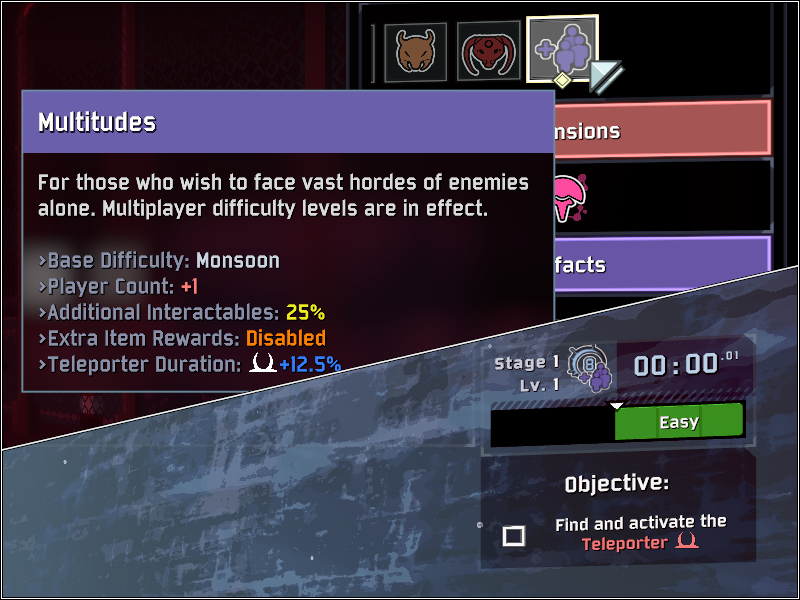
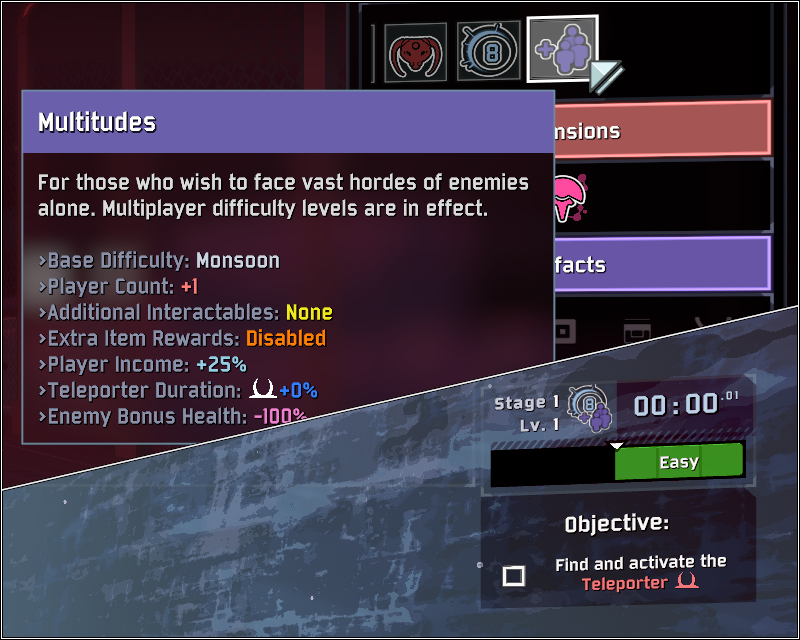
Add option to limit penalties to player income and boss health.

diff --git a/Session.cs b/Session.cs
@@ -17,6 +17,8 @@ namespace Local.Difficulty.Multitudes
 		public static bool eclipseMode;
 		public static decimal interactableScale;
 		public static bool extraRewards;
+		public static decimal incomePenalty;
+		public static decimal bonusHealth;
 		public static decimal teleporterChargeRate;
 		public static bool forceEnable;
 
@@ -34,7 +36,7 @@ namespace Local.Difficulty.Multitudes
 			}
 		}
 
-		public static void End(Run _)
+		public static void End(object _)
 		{
 			SceneDirector.onPrePopulateSceneServer -= AdjustInteractableCredits;
 			BossGroup.onBossGroupStartServer -= AdjustBossRewards;
@@ -57,7 +59,7 @@ namespace Local.Difficulty.Multitudes
 					});
 
 			if ( RoR2Application.isInMultiPlayer || forceEnable )
-				sendMessage("Multitudes Enabled\n" + Setup.BuildDescription(flavorText: false));
+				sendMessage(Setup.BuildDescription(verbose: false));
 			else if ( eclipseMode )
 				sendMessage("Good luck.");
 		}
@@ -70,14 +72,14 @@ namespace Local.Difficulty.Multitudes
 				GreetUser();
 		}
 
-		[HarmonyPatch(typeof(Run), nameof(Run.livingPlayerCount), MethodType.Getter)]
 		[HarmonyPatch(typeof(Run), nameof(Run.participatingPlayerCount), MethodType.Getter)]
 		[HarmonyPostfix]
-		private static int AdjustPlayerCount(int realPlayerCount)
-				=> realPlayerCount + additionalPlayers;
+		private static int AdjustPlayerCount(int playerCount)
+				=> playerCount > 0 ? playerCount + additionalPlayers : playerCount;
 
-		public static int GetRealPlayerCount(int adjustedPlayerCount)
-				=> adjustedPlayerCount - additionalPlayers;
+		private static int RealPlayerCount => RoR2Application.isInMultiPlayer ?
+				PlatformSystems.lobbyManager.calculatedTotalPlayerCount :
+				PlayerCharacterMasterController.instances.Count;
 
 //		[HarmonyPatch(typeof(SceneDirector), nameof(SceneDirector.PopulateScene))]
 //		[HarmonyPrefix]
@@ -112,20 +114,88 @@ namespace Local.Difficulty.Multitudes
 		{
 			if ( !extraRewards )
 			{
-				int realPlayerCount = GetRealPlayerCount(Run.instance.participatingPlayerCount);
 				int originalRewards = ( 1 + __instance.bonusRewardCount ) * 
 						Run.instance.participatingPlayerCount;
 
 				__instance.scaleRewardsByPlayerCount = false;
 
 				// Increase rewards for multiplayer games...
-				__instance.bonusRewardCount *= realPlayerCount;	// i.e. `Shrine of the Mountain`
-				__instance.bonusRewardCount += realPlayerCount - 1;	// & base rewards.
+				__instance.bonusRewardCount *= RealPlayerCount;	// i.e. `Shrine of the Mountain`
+				__instance.bonusRewardCount += RealPlayerCount - 1;	// & base rewards.
 
 				originalRewards -= 1 + __instance.bonusRewardCount;
 				Console.WriteLine(
 						$"Adjusted boss event to drop { originalRewards } less item(s).");
 			}
+		}
+
+		[HarmonyPatch(typeof(TeamManager), nameof(TeamManager.GiveTeamMoney))]
+		[HarmonyPrefix]
+		private static void AdjustPlayerIncome(ref uint money)
+		{
+			decimal extraIncome = money * additionalPlayers;
+			extraIncome /= Run.instance.participatingPlayerCount;
+
+			money -= (uint)( incomePenalty * extraIncome );
+		}
+
+		[HarmonyPatch(typeof(CombatDirector), nameof(CombatDirector.Spawn))]
+		[HarmonyPatch(typeof(ScriptedCombatEncounter), nameof(ScriptedCombatEncounter.Spawn))]
+		[HarmonyTranspiler]
+		private static IEnumerable<CodeInstruction> InsertHook(
+				MethodBase __originalMethod, IEnumerable<CodeInstruction> instructionList)
+		{
+			MethodInfo directorSpawn =
+					typeof(DirectorCore).GetMethod(nameof(DirectorCore.TrySpawnObject));
+
+			foreach ( CodeInstruction instruction in instructionList )
+			{
+				if ( instruction.Calls(directorSpawn) && bonusHealth > 0 )
+				{
+					yield return new CodeInstruction(OpCodes.Dup);
+					yield return new CodeInstruction(OpCodes.Ldarg_0);
+
+					if ( typeof(CombatDirector) == __originalMethod.DeclaringType )
+						yield return new CodeInstruction(OpCodes.Ldarg_2);
+					else yield return new CodeInstruction(OpCodes.Ldnull);
+
+					yield return CodeInstruction.Call(typeof(Session), nameof(AddBonusHealth));
+				}
+
+				yield return instruction;
+			}
+		}
+
+		private static void AddBonusHealth(
+				DirectorSpawnRequest request, object instance, EliteDef elite)
+		{
+			request.onSpawnedServer += ( SpawnCard.SpawnResult result ) =>
+			{
+				if ( result.success && result.spawnedInstance )
+				{
+					double health = 0;
+
+					if ( instance is CombatDirector director )
+					{
+						if ( director.combatSquad?.grantBonusHealthInMultiplayer is true )
+						{
+							health = elite ? elite.healthBoostCoefficient : 1;
+							health *= additionalPlayers;
+						}
+					}
+					else
+					{
+						health = Run.instance.difficultyCoefficient * 2 / 5;
+						health *= Math.Sqrt(Run.instance.livingPlayerCount + additionalPlayers)
+								- Math.Sqrt(Run.instance.livingPlayerCount);
+					}
+
+					health *= (double) bonusHealth * 10;
+					result.spawnedInstance.GetComponent<Inventory>().GiveItem(
+							RoR2Content.Items.BoostHp, (int) Math.Round(health)
+						);
+				}
+			};
 		}
 
 		[HarmonyPatch(typeof(HoldoutZoneController), nameof(HoldoutZoneController.OnEnable))]
@@ -135,10 +205,8 @@ namespace Local.Difficulty.Multitudes
 			if ( __instance.chargingTeam == TeamIndex.Player &&
 					__instance.playerCountScaling != 0 )
 			{
-				int realPlayerCount = GetRealPlayerCount(Run.instance.participatingPlayerCount);
-
-				decimal multiplier = realPlayerCount / 
-						( realPlayerCount + teleporterChargeRate * additionalPlayers );
+				decimal multiplier = RealPlayerCount /
+						( RealPlayerCount + teleporterChargeRate * additionalPlayers );
 				__instance.calcChargeRate +=
 						( ref float chargeRate ) => chargeRate *= (float) multiplier;
 
@@ -156,44 +224,24 @@ namespace Local.Difficulty.Multitudes
 					teleporterChargeRate * additionalPlayers );
 		}
 
-		private static readonly MethodInfo getRealPlayerCount =
-				typeof(Session).GetMethod(nameof(GetRealPlayerCount));
-
 		[HarmonyPatch(typeof(ArenaMissionController), nameof(ArenaMissionController.EndRound))]
 		[HarmonyPatch(typeof(InfiniteTowerWaveController),
 				nameof(InfiniteTowerWaveController.DropRewards))]
 		[HarmonyTranspiler]		// Adjust rewards for `Void Fields` & `Simulacrum`.
-		private static IEnumerable<CodeInstruction> IgnoreParticipatingPlayerAdjustment(
+		private static IEnumerable<CodeInstruction> IgnorePlayerAdjustment(
 				IEnumerable<CodeInstruction> instructionList)
 		{
-			MethodInfo getParticipatingPlayerCount =
+			MethodInfo getPlayerCount =
 					typeof(Run).GetProperty(nameof(Run.participatingPlayerCount)).GetMethod;
 
 			foreach ( CodeInstruction instruction in instructionList )
 			{
-				yield return instruction;
-
-				if ( instruction.Calls(getParticipatingPlayerCount) 
-						&& !extraRewards )
-					yield return new CodeInstruction(OpCodes.Call, getRealPlayerCount);
-			}
-		}
-
-		[HarmonyPatch(typeof(AllPlayersTrigger), nameof(AllPlayersTrigger.FixedUpdate))]
-		[HarmonyPatch(typeof(MultiBodyTrigger), nameof(MultiBodyTrigger.FixedUpdate))]
-		[HarmonyTranspiler]		// Ensure final boss event triggers on appropriate player count.
-		private static IEnumerable<CodeInstruction> IgnoreLivingPlayerAdjustment(
-				IEnumerable<CodeInstruction> instructionList)
-		{
-			MethodInfo getLivingPlayerCount =
-					typeof(Run).GetProperty(nameof(Run.livingPlayerCount)).GetMethod;
-
-			foreach ( CodeInstruction instruction in instructionList )
-			{
-				yield return instruction;
-
-				if ( instruction.Calls(getLivingPlayerCount) )
-					yield return new CodeInstruction(OpCodes.Call, getRealPlayerCount);
+				if ( instruction.Calls(getPlayerCount) && ! extraRewards )
+				{
+					yield return new CodeInstruction(OpCodes.Pop);
+					yield return Transpilers.EmitDelegate<Func<int>>(( ) => RealPlayerCount );
+				}
+				else yield return instruction;
 			}
 		}
 	}

diff --git a/Setup.cs b/Setup.cs
@@ -23,7 +23,7 @@ namespace Local.Difficulty.Multitudes
 	[BepInPlugin("local.difficulty.multitudes", "MultitudesDifficulty", versionNumber)]
 	public class Setup : BaseUnityPlugin
 	{
-		public const string versionNumber = "0.3.5";
+		public const string versionNumber = "0.4.0";
 
 		public static DifficultyIndex multitudesIndex = DifficultyIndex.Invalid;
 		public static Color colorTheme;
@@ -42,7 +42,7 @@ namespace Local.Difficulty.Multitudes
 						DifficultyCatalog.GetDifficultyDef(DifficultyIndex.Hard).scalingValue,
 					nameToken: "Multitudes",
 					iconPath: null,
-					descriptionToken: BuildDescription(flavorText: true),
+					descriptionToken: BuildDescription(verbose: true),
 					color: colorTheme,
 					serverTag: RoR2ServerTags.mod,
 					countsAsHardMode: true
@@ -91,10 +91,10 @@ namespace Local.Difficulty.Multitudes
 
 			section("Advanced");
 
-			Session.interactableScale = Config.Bind<decimal>(
+			Session.interactableScale = Config.Bind(
 					section: sectionTitle,
 					key: "Additional Interactables",
-					defaultValue: 25,
+					defaultValue: 0m,
 					new ConfigDescription(
 						"Increasing this percentage results in additional interactables"
 						+ " (i.e. chests, shrines, & other loot), relative to player count.",
@@ -109,13 +109,33 @@ namespace Local.Difficulty.Multitudes
 						+ " Void Fields, and the Simulacrum."
 				).Value;
 
+			Session.incomePenalty = Config.Bind(
+					section: sectionTitle,
+					key: "Income Penalty",
+					defaultValue: 75m,
+					new ConfigDescription(
+						"Gold is typically split between all players. Lower this value to"
+						+ " lessen this effect.",
+							new AcceptableValueRange<decimal>(0, 100))
+				).Value / 100;
+
 			Session.teleporterChargeRate = Config.Bind(
 					section: sectionTitle,
 					key: "Teleporter Duration",
-					defaultValue: (decimal) 12.5,
+					defaultValue: 0m,
 					new ConfigDescription(
 						"The extent at which player count is considered when determining charge"
 						+ " rate for holdout zones. Higher values result in slower charge.",
+							new AcceptableValueRange<decimal>(0, 100))
+				).Value / 100;
+
+			Session.bonusHealth = Config.Bind(
+					section: sectionTitle,
+					key: "Bonus Health",
+					defaultValue: 0m,
+					new ConfigDescription(
+						"Certain enemies receive bonus health in multiplayer. Reduce the amount"
+						+ " granted to teleporter bosses and the like.",
 							new AcceptableValueRange<decimal>(0, 100))
 				).Value / 100;
 
@@ -130,13 +150,12 @@ namespace Local.Difficulty.Multitudes
 				).Value;
 		}
 
-		public static string BuildDescription(bool flavorText = false)
+		public static string BuildDescription(bool verbose = false)
 		{
-			return ( flavorText ? "For those who wish to face vast hordes of enemies alone. " +
-						"Multiplayer difficulty levels are in effect.\n\n" : "" ) +
-				( Session.forceEnable ? "" :
-						"<style=cStack>>Base Difficulty:</style> <style=cSub>" +
-						( Session.eclipseMode ? "Eclipse" : "Monsoon" ) + "</style>\n" ) +
+			return ( verbose ? "For those who wish to face vast hordes of enemies alone. " +
+						"Multiplayer difficulty levels are in effect.\n\n" +
+				"<style=cStack>>Base Difficulty:</style> <style=cSub>" +
+						( Session.eclipseMode ? "Eclipse" : "Monsoon" ) + "</style>\n" : "" ) +
 				"<style=cStack>>Player Count:</style> " +
 						$"<style=cDeath>+{ Session.additionalPlayers }</style>\n" +
 				"<style=cStack>>Additional Interactables:</style> " +
@@ -145,9 +164,13 @@ namespace Local.Difficulty.Multitudes
 				"<style=cStack>>Extra Item Rewards:</style> " +
 						( Session.extraRewards ? "<style=cIsHealing>Enabled</style>\n" :
 						"<color=#FF8000>Disabled</color>\n" ) +				// Equipment color.
+				"<style=cStack>>Player Income:</style> <style=cIsUtility>" +
+						'+' + ( 1 - Session.incomePenalty ).ToString("0.#%") + "</style>\n" +
 				"<style=cStack>>Teleporter Duration:</style> <sprite name=\"TP\">" +
 						"<color=#307FFF>+" + ( Session.teleporterChargeRate *	// Lunar color.
-						Session.additionalPlayers ).ToString("0.#%") + "</color>";
+						Session.additionalPlayers ).ToString("0.#%") + "</color>\n" +
+				"<style=cStack>>Enemy Bonus Health:</style> <style=cIsVoid>" +
+						'-' + ( 1 - Session.bonusHealth ).ToString("0.#%") + "</style>";
 		}
 
 		private static RuleDef DifficultyRule => RuleCatalog.allRuleDefs.First();

diff --git a/README.md b/README.md
@@ -18,18 +18,23 @@ It is recommended that you install with [*r2modman*](https://thunderstore.io/pac
 | Eclipse Mode | *True/False* | Use eclipse modifiers. Not for the faint of heart. |
 | Additional Interactables | *Percent* | Increasing this percentage results in additional interactables (i.e. chests, shrines, & other loot), relative to player count. |
 | Extra Item Rewards | *True/False*  | Enable to drop additional items during the teleporter event, Void Fields, and the Simulacrum. |
+| Income Penalty | *Percent* | Gold is typically split between all players. Lower this value to lessen this effect. |
 | Teleporter Duration | *Percent* | The extent at which player count is considered when determining charge rate for holdout zones. Higher values result in slower charge. |
+| Bonus Health | *Percent* | Certain enemies receive bonus health in multiplayer. Reduce the amount granted to teleporter bosses and the like. |
 | Force Enable | *True/False* | Force player count adjustment regardless of difficulty selection. For use with other custom difficulty modes. |
 
-Note that values of **0**% (for *Additional Interactables* & *Teleporter Duration*) and **false** (*Extra Item Rewards*) will result in identical behavior to an unmodded game with respect to each parameter. By contrast, selecting **100**% (or **true**) will provide the full effect of *Additional Player Count*.
+Note that values of **0**% will always result in identical behavior to an singleplayer game with respect to each parameter. By contrast, selecting **100**% will provide the full effect of *Additional Player Count*.
 
 ## Known Issues
 
 - In multiplayer, clients may notice inaccurate information presented in the user interface regarding difficulty level. This is purely visual and should not affect gameplay nor the host.
 
-Please report any feedback or issues discovered [here](https://github.com/6thmoon/MultitudesDifficulty/issues). Feel free to check out my [other](https://thunderstore.io/package/6thmoon/CurseCatcher/) released content too.
+Please report any feedback or issues discovered [here](https://github.com/6thmoon/MultitudesDifficulty/issues). Feel free to check out my [other](https://thunderstore.io/package/6thmoon/?ordering=top-rated) released content too.
 
 ## Version History
+
+#### `0.4.0`
+- Add option to limit penalties to player income and boss health.
 
 #### `0.3.5`
 - Update dependencies.
